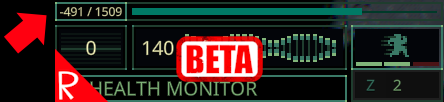
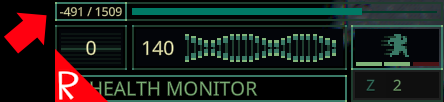
docs update

Changed region(s): [[0.3806, 0.3529, 0.6149, 0.8235]]

diff --git a/README.md b/README.md
@@ -2,9 +2,6 @@
 
 ![thumbnail icon](media/thumbnail.png)
 
-# Beta Only
-This is currently only for the opt in beta, and not the current release.
-
 # Docs
 
 This mod adds a negative "hunger" number to the left of the normal food number.
